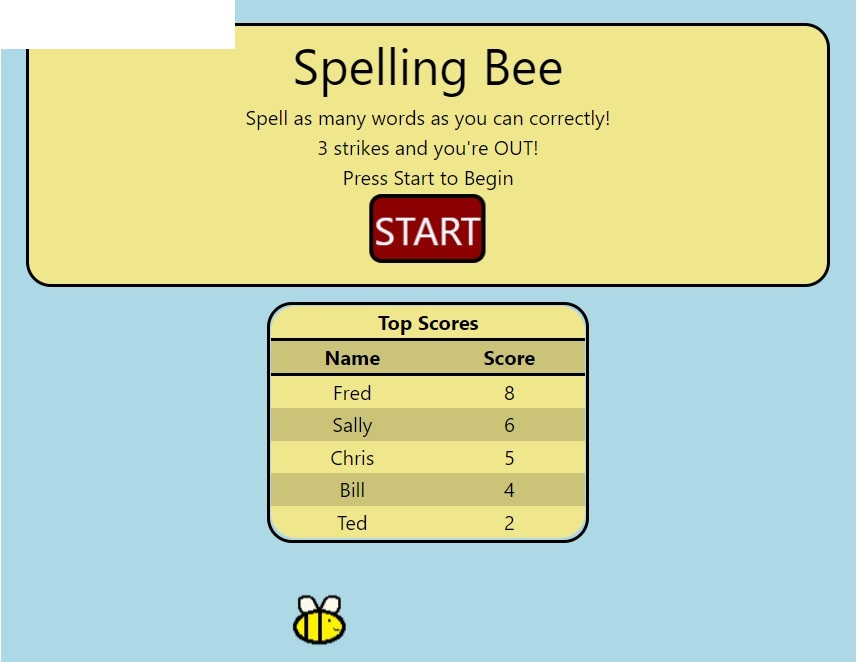
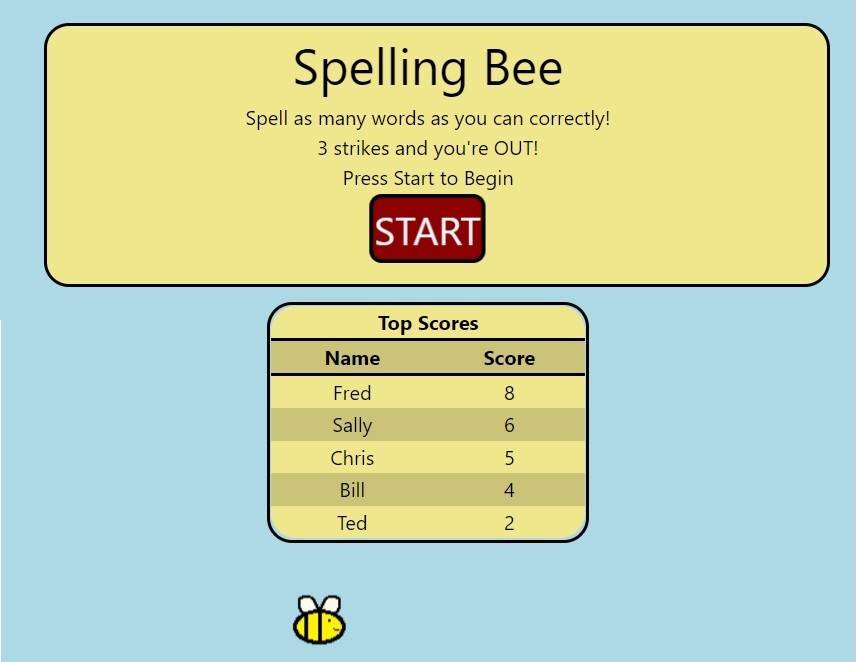
added crt flash back machine

Changed region(s): [[0.0, 0.0, 0.2734, 0.4532]]

diff --git a/assets/css/style.css b/assets/css/style.css
@@ -138,8 +138,24 @@ header nav img{
     text-decoration: none;
     text-align: left;
 }
+
+
+
+
 /*Spelling Bee*/
 #spellingBee {
+    color: var(--primary-color);
+    flex: 1 100%;
+    height: 350px;
+    border-top: 3px solid var(--primary-color);
+    border-bottom: 3px solid var(--primary-color);
+    background-position: top;
+    background-size: cover;
+    background-image: url(../images/spellingImage.jpg);
+}
+
+/*CRT*/
+#crtFlashBack {
     color: var(--primary-color);
     flex: 1 50%;
     height: 350px;
@@ -147,7 +163,7 @@ header nav img{
     border-bottom: 3px solid var(--primary-color);
     background-position: top;
     background-size: cover;
-    background-image: url(../images/spellingImage.jpg);
+    background-image: url(../images/CRTImage.jpg);
 }
                                     /*MORCAL---------*/
 #morcal {

diff --git a/index.html b/index.html
@@ -49,6 +49,7 @@
 
     <div id="works">
         <a id="spellingBee" href="https://chriskurz098.github.io/Group-Project-Spelling-Bee/" target="_blank">Spelling Bee</a>
+        <a id="crtFlashBack" href="https://chriskurz098.github.io/80sGameshowPlayer/" target="_blank">CRT Flash Back Machine</a>
             <a id="morcal" href="https://chriskurz098.github.io/MORCAL-GUI/" target="_blank">MORCAL: Mortgage Calculator</a>
             <a id="runbuddy" href="https://chriskurz098.github.io/run-buddy/" target="_blank">Run Buddy</a>
             <a id="breakout" href="https://chriskurz098.github.io/Breakout/" target="_blank">Breakout</a>
